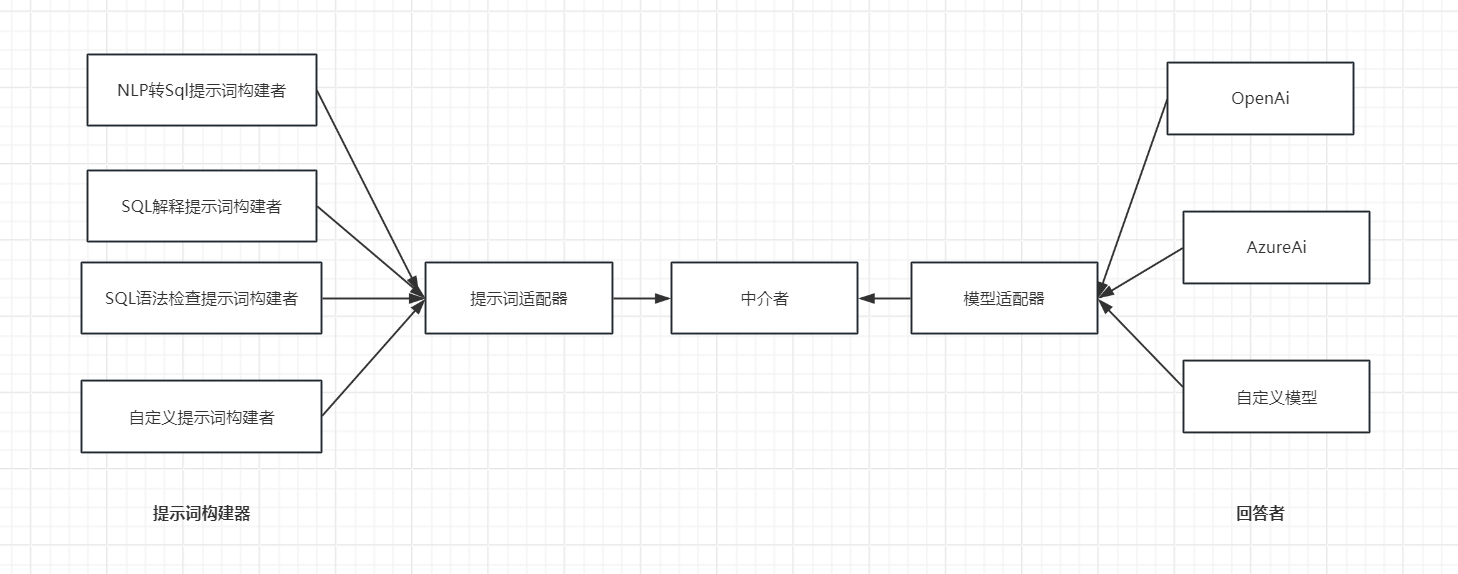
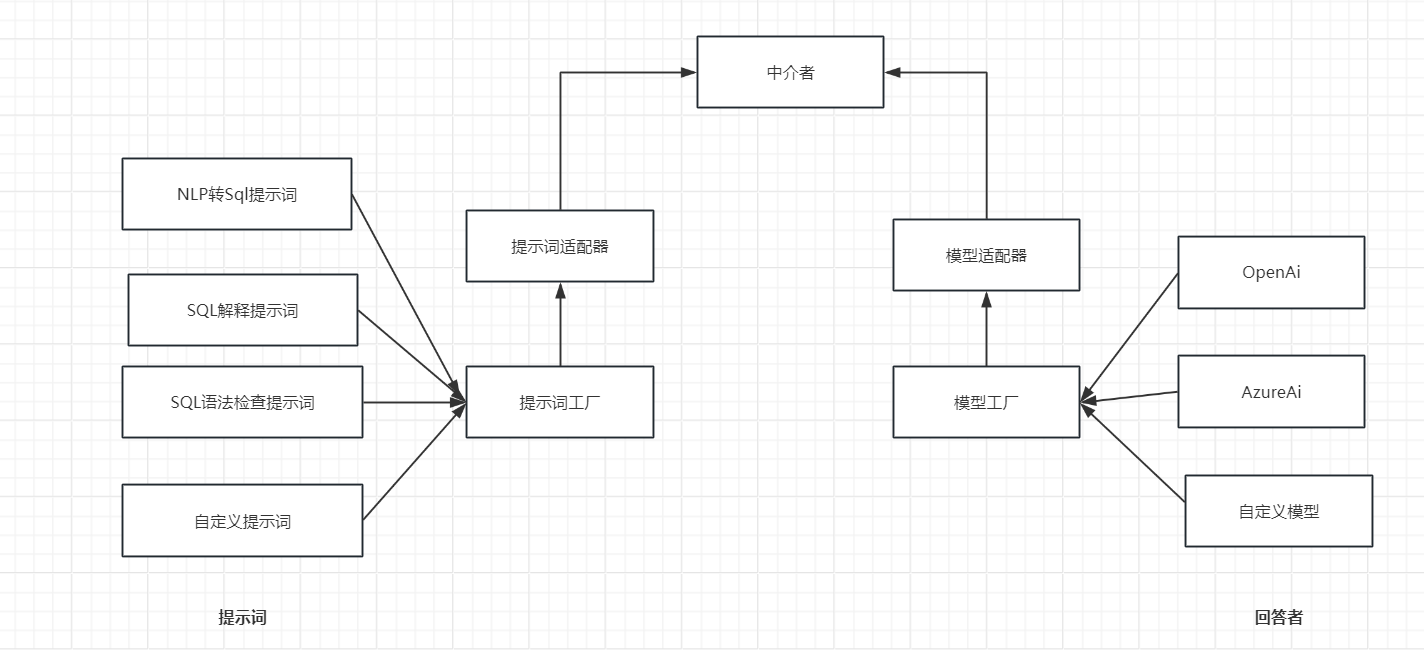
代码优化

diff --git a/src/main/java/com/lufei/factory/prompt/Nlp2SqlPrompt.java b/src/main/java/com/lufei/factory/prompt/Nlp2SqlPrompt.java
@@ -1,4 +1,4 @@
-package com.lufei.builder;
+package com.lufei.factory.prompt;
 
 import cn.hutool.db.Db;
 import cn.hutool.db.DbUtil;
@@ -6,17 +6,19 @@ import cn.hutool.db.Entity;
 import cn.hutool.db.ds.simple.SimpleDataSource;
 import com.lufei.dto.ChatAiDTO;
 import com.lufei.enums.PromptType;
+import com.lufei.factory.PromptFactory;
 import com.lufei.properties.DbProperties;
 import org.springframework.beans.factory.annotation.Autowired;
 import org.springframework.stereotype.Component;
 
 import java.sql.SQLException;
+import java.util.List;
 
 /**
  * @author kun.li
  */
 @Component
-public class Nlp2SqlPromptBuilder implements PromptBuilder {
+public class Nlp2SqlPrompt implements PromptFactory {
 
     @Autowired
     private DbProperties dbProperties;
@@ -30,6 +32,12 @@ public class Nlp2SqlPromptBuilder implements PromptBuilder {
 
     @Override
     public String buildPromptMessage(ChatAiDTO chatAiDTO) {
+        String promptTemplate = "请根据以下table properties和SQL input%s.\n %s SQL tables, with their properties: \n ``` \n %s \n``` \n SQL input: %s \n - 不要生成任何解释或者讨论";
+        String describe = PromptType.getDescribe(chatAiDTO.getPromptType());
+        return String.format(promptTemplate, describe, dbProperties.getDbType(), buildTableDDL(chatAiDTO.getTableNames()), chatAiDTO.getContent());
+    }
+
+    public String buildTableDDL(List<String> tableNames) {
         SimpleDataSource simpleDataSource = new SimpleDataSource(
                 dbProperties.getUrl(), dbProperties.getUsername(),
                 dbProperties.getPassword(), dbProperties.getDriverClassName()
@@ -37,7 +45,7 @@ public class Nlp2SqlPromptBuilder implements PromptBuilder {
         Db use = DbUtil.use(simpleDataSource);
         StringBuilder tableDDL = new StringBuilder();
         try {
-            for (String tableName : chatAiDTO.getTableNames()) {
+            for (String tableName : tableNames) {
                 Entity entity = use.queryOne(String.format(CREATE_TABLE_META_DATA, tableName));
                 String metaData = entity.getStr("create table");
                 tableDDL.append(metaData).append("\n");
@@ -46,8 +54,7 @@ public class Nlp2SqlPromptBuilder implements PromptBuilder {
         } catch (SQLException e) {
             throw new RuntimeException(e);
         }
-        String promptTemplate = "请根据以下table properties和SQL input%s.\n %s SQL tables, with their properties: \n ```%s``` \n SQL input: %s";
-        String describe = PromptType.getDescribe(chatAiDTO.getPromptType());
-        return String.format(promptTemplate, describe, dbProperties.getDbType(),tableDDL,chatAiDTO.getContent());
+        return tableDDL.toString();
     }
+
 }

diff --git a/src/main/java/com/lufei/controller/ChatAiController.java b/src/main/java/com/lufei/controller/ChatAiController.java
@@ -1,11 +1,12 @@
 package com.lufei.controller;
 
-import com.lufei.builder.PromptBuilder;
+import com.lufei.factory.PromptFactory;
 import com.lufei.dto.ChatAiDTO;
 import com.lufei.enums.ModelType;
 import com.lufei.enums.OpenAIVersion;
-import com.lufei.factory.AzureModel;
+import com.lufei.factory.model.AzureModel;
 import com.lufei.factory.ModelFactory;
+import com.lufei.util.ResponseResult;
 import com.lufei.util.SpringApplicationUtil;
 import lombok.extern.slf4j.Slf4j;
 import org.springframework.beans.factory.annotation.Autowired;
@@ -28,17 +29,19 @@ public class ChatAiController {
 
 
     @Autowired
-    private List<PromptBuilder> promptBuilderList;
+    private List<PromptFactory> promptFactoryList;
 
     @Autowired
     private List<ModelFactory> modelFactoryList;
 
-
+    /**
+     * ai统一访问入口非流
+     */
     @PostMapping("ai")
-    public String chatAi(@RequestBody ChatAiDTO chatAiDTO) {
+    public ResponseResult chatAi(@RequestBody ChatAiDTO chatAiDTO) {
         String prompt = buildPrompt(chatAiDTO);
         log.info("prompt:{}", prompt);
-        return getAnswer(chatAiDTO, prompt);
+        return ResponseResult.success(getAnswer(chatAiDTO, prompt));
     }
 
     public String getAnswer(ChatAiDTO chatAiDTO, String prompt) {
@@ -68,9 +71,9 @@ public class ChatAiController {
      * 提示词适配构建器
      */
     public String buildPrompt(ChatAiDTO chatAiDTO) {
-        for (PromptBuilder promptBuilder : promptBuilderList) {
-            if (promptBuilder.supportPromptType(chatAiDTO.getPromptType())) {
-                return promptBuilder.buildPromptMessage(chatAiDTO);
+        for (PromptFactory promptFactory : promptFactoryList) {
+            if (promptFactory.supportPromptType(chatAiDTO.getPromptType())) {
+                return promptFactory.buildPromptMessage(chatAiDTO);
             }
         }
         return "暂无法回答";

diff --git a/src/main/java/com/lufei/util/ResponseResult.java b/src/main/java/com/lufei/util/ResponseResult.java
@@ -1,0 +1,62 @@
+package com.lufei.util;
+
+import com.fasterxml.jackson.annotation.JsonInclude;
+import lombok.Data;
+
+
+/**
+ * 统一响应格式
+ *
+ * @author kun.li
+ */
+@Data
+@JsonInclude(JsonInclude.Include.NON_NULL)
+public class ResponseResult {
+    /**
+     * 状态码
+     */
+    private Integer stateCode;
+    /**
+     * 提示消息
+     */
+    private String msg;
+    /**
+     * 返回的数据
+     */
+    private Object data;
+
+
+    public ResponseResult() {
+    }
+
+    public ResponseResult(Integer stateCode, String msg, Object data) {
+        this.stateCode = stateCode;
+        this.msg = msg;
+        this.data = data;
+    }
+
+    public static ResponseResult success(Object data) {
+        return success("处理成功", data);
+    }
+
+    public static ResponseResult success(String msg, Object data) {
+        return success(200, msg, data);
+    }
+
+    public static ResponseResult success(Integer stateCode, String msg, Object data) {
+        return new ResponseResult(stateCode, msg, data);
+    }
+
+    public static ResponseResult error() {
+        return error("处理失败");
+    }
+
+    public static ResponseResult error(String msg) {
+        return error(500, msg);
+    }
+
+    public static ResponseResult error(Integer stateCode, String msg) {
+        return new ResponseResult(stateCode, msg, null);
+    }
+
+}

diff --git a/src/main/java/com/lufei/factory/prompt/SQLCheckedPrompt.java b/src/main/java/com/lufei/factory/prompt/SQLCheckedPrompt.java
@@ -1,7 +1,8 @@
-package com.lufei.builder;
+package com.lufei.factory.prompt;
 
 import com.lufei.dto.ChatAiDTO;
 import com.lufei.enums.PromptType;
+import com.lufei.factory.PromptFactory;
 import org.springframework.stereotype.Component;
 
 /**
@@ -9,7 +10,7 @@ import org.springframework.stereotype.Component;
  * @author kun.li
  */
 @Component
-public class SQLCheckedPromptBuilder implements PromptBuilder {
+public class SQLCheckedPrompt implements PromptFactory {
     @Override
     public boolean supportPromptType(String type) {
         return "SQL_CHECKED".equals(type);

diff --git a/src/main/java/com/lufei/factory/prompt/ExPlainPrompt.java b/src/main/java/com/lufei/factory/prompt/ExPlainPrompt.java
@@ -1,7 +1,8 @@
-package com.lufei.builder;
+package com.lufei.factory.prompt;
 
 import com.lufei.dto.ChatAiDTO;
 import com.lufei.enums.PromptType;
+import com.lufei.factory.PromptFactory;
 import org.springframework.stereotype.Component;
 
 /**
@@ -10,7 +11,7 @@ import org.springframework.stereotype.Component;
  * @author kun.li
  */
 @Component
-public class ExPlainPromptBuilder implements PromptBuilder {
+public class ExPlainPrompt implements PromptFactory {
     @Override
     public boolean supportPromptType(String type) {
         return "SQL_EXPLAIN".equals(type);

diff --git a/src/main/java/com/lufei/factory/prompt/TextGenerationPrompt.java b/src/main/java/com/lufei/factory/prompt/TextGenerationPrompt.java
@@ -1,6 +1,7 @@
-package com.lufei.builder;
+package com.lufei.factory.prompt;
 
 import com.lufei.dto.ChatAiDTO;
+import com.lufei.factory.PromptFactory;
 import org.springframework.stereotype.Component;
 
 /**
@@ -9,7 +10,7 @@ import org.springframework.stereotype.Component;
  * @author kun.li
  */
 @Component
-public class TextGenerationPromptBuilder implements PromptBuilder {
+public class TextGenerationPrompt implements PromptFactory {
     @Override
     public boolean supportPromptType(String type) {
         return "TEXT_GENERATION".equals(type);

diff --git a/src/main/java/com/lufei/factory/model/AzureModel.java b/src/main/java/com/lufei/factory/model/AzureModel.java
@@ -1,10 +1,11 @@
-package com.lufei.factory;
+package com.lufei.factory.model;
 
 import com.azure.ai.openai.models.ChatCompletionsOptions;
 import com.azure.ai.openai.models.ChatRequestMessage;
 import com.azure.ai.openai.models.ChatRequestUserMessage;
 import com.lufei.enums.ModelType;
 import com.lufei.enums.OpenAIVersion;
+import com.lufei.factory.ModelFactory;
 import com.lufei.util.AzureAiRequest;
 import org.springframework.beans.factory.annotation.Autowired;
 import org.springframework.stereotype.Component;

diff --git a/src/main/java/com/lufei/factory/PromptFactory.java b/src/main/java/com/lufei/factory/PromptFactory.java
@@ -1,4 +1,4 @@
-package com.lufei.builder;
+package com.lufei.factory;
 
 import com.lufei.dto.ChatAiDTO;
 
@@ -6,7 +6,7 @@ import com.lufei.dto.ChatAiDTO;
  * 提示词构建器
  * @author kun.li
  */
-public interface PromptBuilder {
+public interface PromptFactory {
     /**
      * 支持的提示词类型
      */

diff --git a/README.md b/README.md
@@ -68,7 +68,7 @@ db:
 
 ### 帮助
 github地址: https://github.com/Lifu12/lufei-auto-generate-sql <br>
-gite地址:https://gitee.com/kun_gege/lufei-auto-generate-sql <br>
+gitee地址:https://gitee.com/kun_gege/lufei-auto-generate-sql <br>
 后续如果有不懂的地方,请关注公众号`编程思维阁` 进行交流
 或者添加作者微信进交流群<br>
 <img src="Ai自动生成Sql.assets/img.png"  height="300px" title="微信二维码" width="280px">
